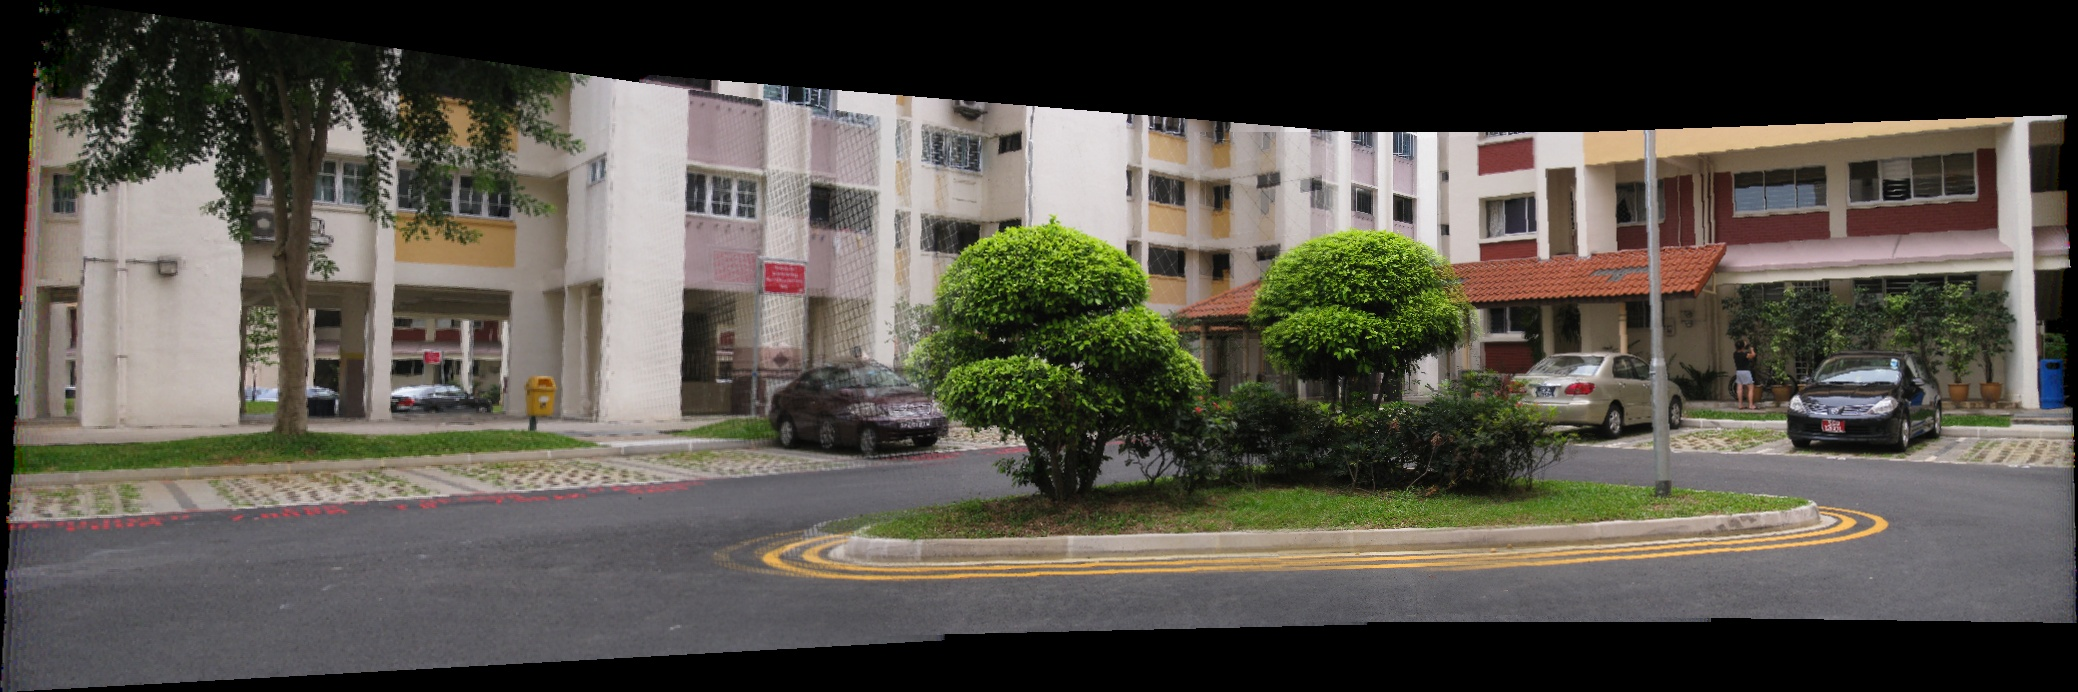
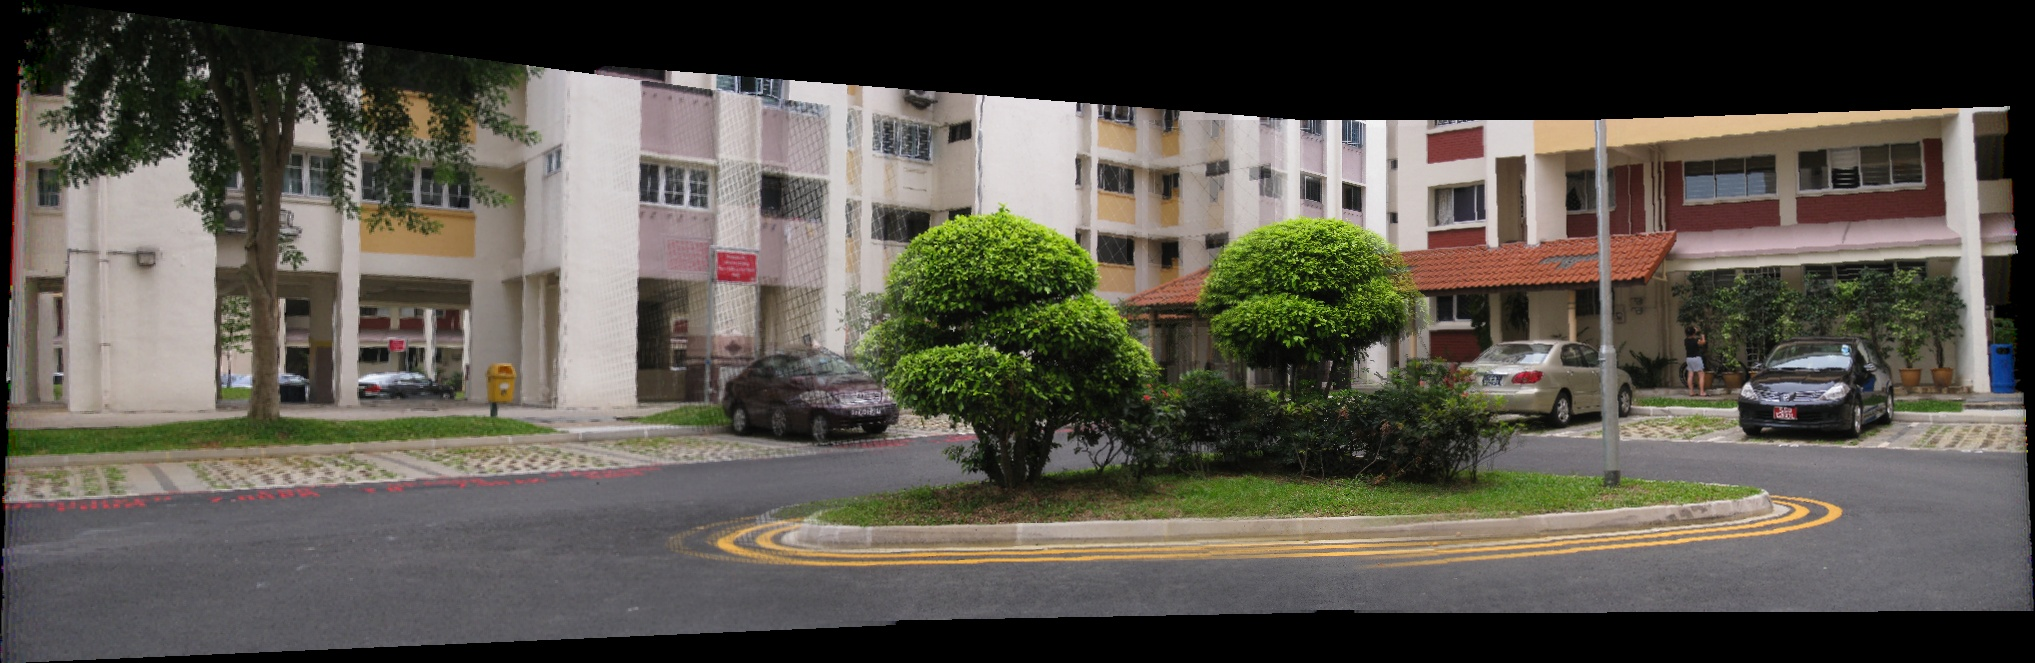
done, unbbleneded too

diff --git a/A3/main1.py b/A3/main1.py
@@ -13,7 +13,7 @@ from helper import *
 #Reading files
 ##########################################################
 built_in = False # to switch between built-in or custom
-paths = ['I1']#, 'I4', 'I5']
+paths = ['I1', 'I4', 'I5']
 for pathI in paths:
     path = './Images_Asgnmt3_1/' + pathI + '/'
     imagesNames = ['a.jpg', 'b.jpg', 'c.jpg', 'd.jpg']#, 'e.jpg', 'f.jpg']
@@ -94,8 +94,34 @@ for pathI in paths:
     # create canvas
     factor = [int(imageNos*3), int(imageNos*5)] # dy,dx
     offset = [[3000,1000]] # x,y
+    canvas2 = createCanvas(images[imagesNames[0]], factor)
+
+    #drawing unblended
+    print('stiching unblended')
+    for i in range(0, imageNos):
+        print('drawing', imagesNames[i])
+        drawOnCanvas(canvas2, images[imagesNames[i]], Hss[i], offset, abs(int(imageNos/2)-i)+1, weightDic=None)
+        print('drawn', imagesNames[i])
+    canvas2 = canvas2.astype(np.uint8)
+
+    # stripping
+    print ('stripping')
+    true_points = np.argwhere(canvas2)
+    top_left = true_points.min(axis=0)
+    bottom_right = true_points.max(axis=0)
+    out = canvas2[top_left[0]:bottom_right[0]+1,  # plus 1 because slice isn't
+                 top_left[1]:bottom_right[1]+1]  # inclusive
+    print('done stripping')
+
+    # spitting
+    cv.imwrite("./result/"+pathI+"unblended.jpg", out)
+
+    # create canvas
+    factor = [int(imageNos*3), int(imageNos*5)] # dy,dx
+    offset = [[3000,1000]] # x,y
     canvas = createCanvas(images[imagesNames[0]], factor)
 
+    print('stiching blended')
     #drawing blended
     weightDic = {}
     for i in range(0, imageNos):

diff --git a/A3/helper.py b/A3/helper.py
@@ -54,8 +54,8 @@ def keyPointMatching(images, imageKeyPoints, imageDescriptors, imgA, imgB, dirr)
 
     # cv.imshow("correspondences", img3)
     # writing to results folder
-    file = dirr + "keypoints_"+imgA+'_'+imgB
-    cv.imwrite(file, img3)
+    # file = dirr + "keypoints_"+imgA+'_'+imgB
+    # cv.imwrite(file, img3)
     # print('length of all matches ', len(matches))
     # print('length good matches ', len(good))
     # cv.waitKey()
@@ -205,7 +205,10 @@ def drawOnCanvas(canvas, img, H, offset, fill, weightDic=None):
                 c = np.full((fill, fill, 3), img[i,j])
 
             try:
-                canvas[y:y+fill, x:x+fill] += c.astype(np.uint16)# to reduce tearing
+                if weightDic != None:
+                    canvas[y:y+fill, x:x+fill] += c.astype(np.uint16)# to reduce tearing
+                else:
+                    canvas[y:y+fill, x:x+fill] = c.astype(np.uint16)# to reduce tearing
                 # adding weight as weightDic[col, row] if weightDic provided
                 if weightDic != None:
                     for l in range(fill):
